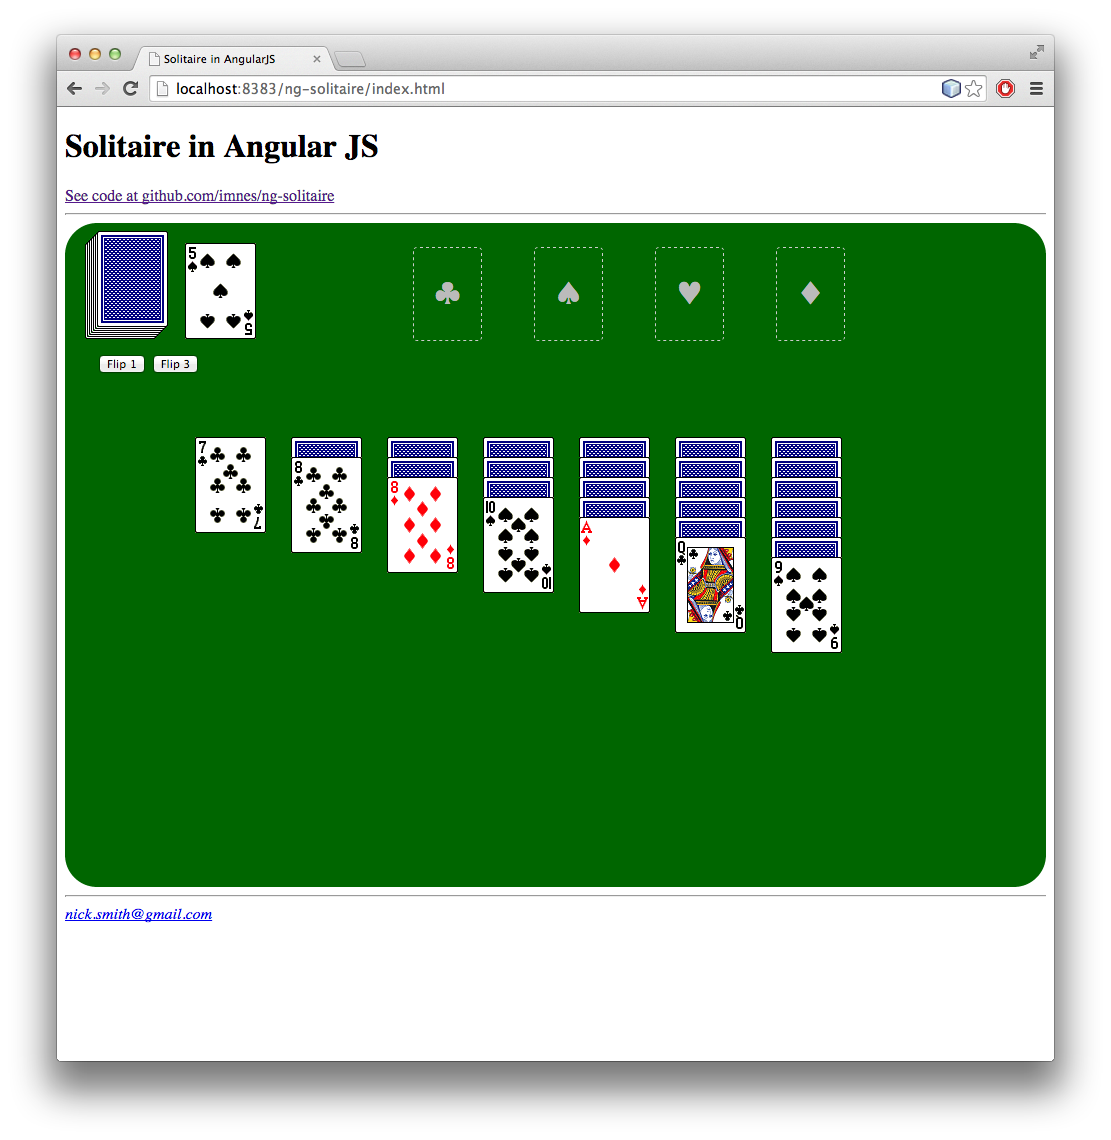
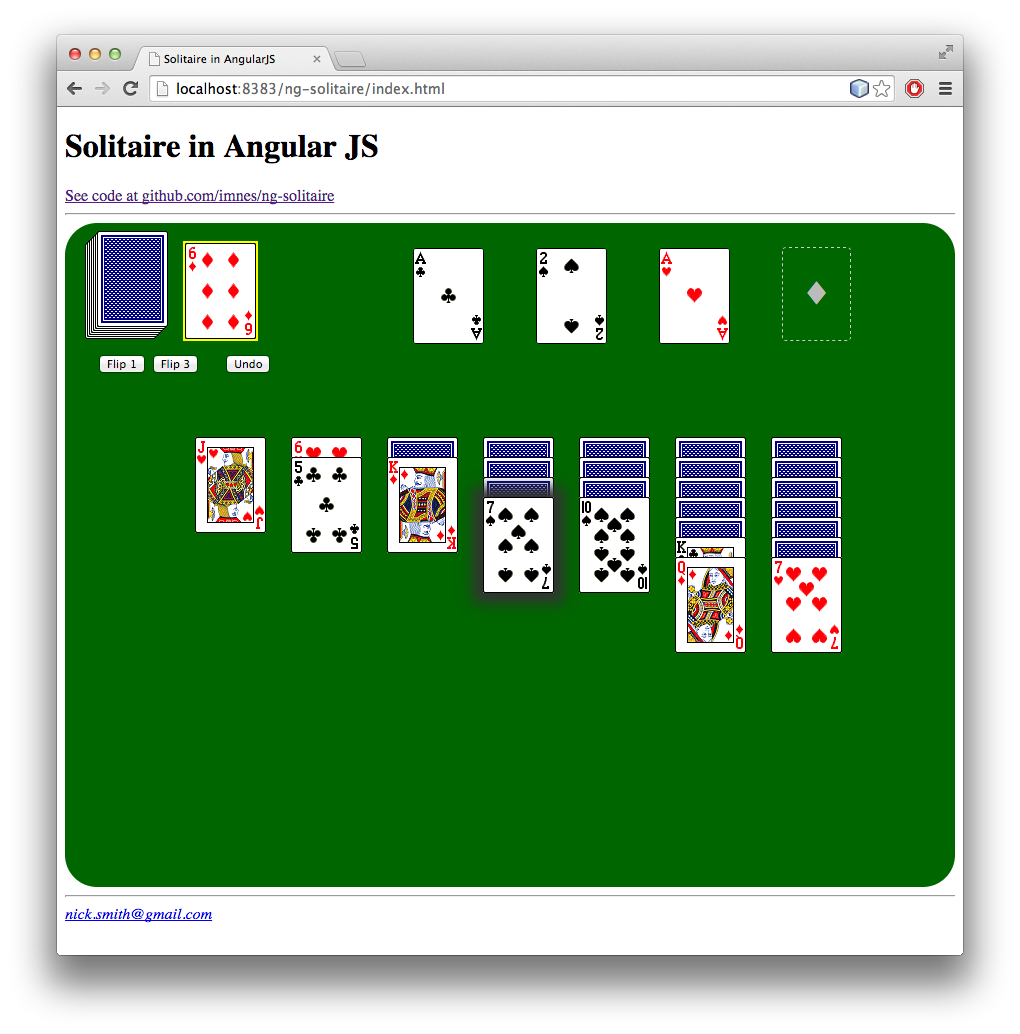
Update screenshots to show undo feature

Changed region(s): [[0.0304, 0.0309, 0.9725, 0.9284], [0.7902, 0.2785, 0.8206, 0.3095]]

diff --git a/README.md b/README.md
@@ -1,10 +1,8 @@
 ng-solitaire
 ============
 
-Solitare game built in Angular JS
+Solitare game built for fun over a weekend in Angular JS 1.3.
 
 ![Alt text](/ss-1.png?raw=true "Screenshot 1")
-
-![Alt text](/ss-2.png?raw=true "Screenshot 2")
 
 
